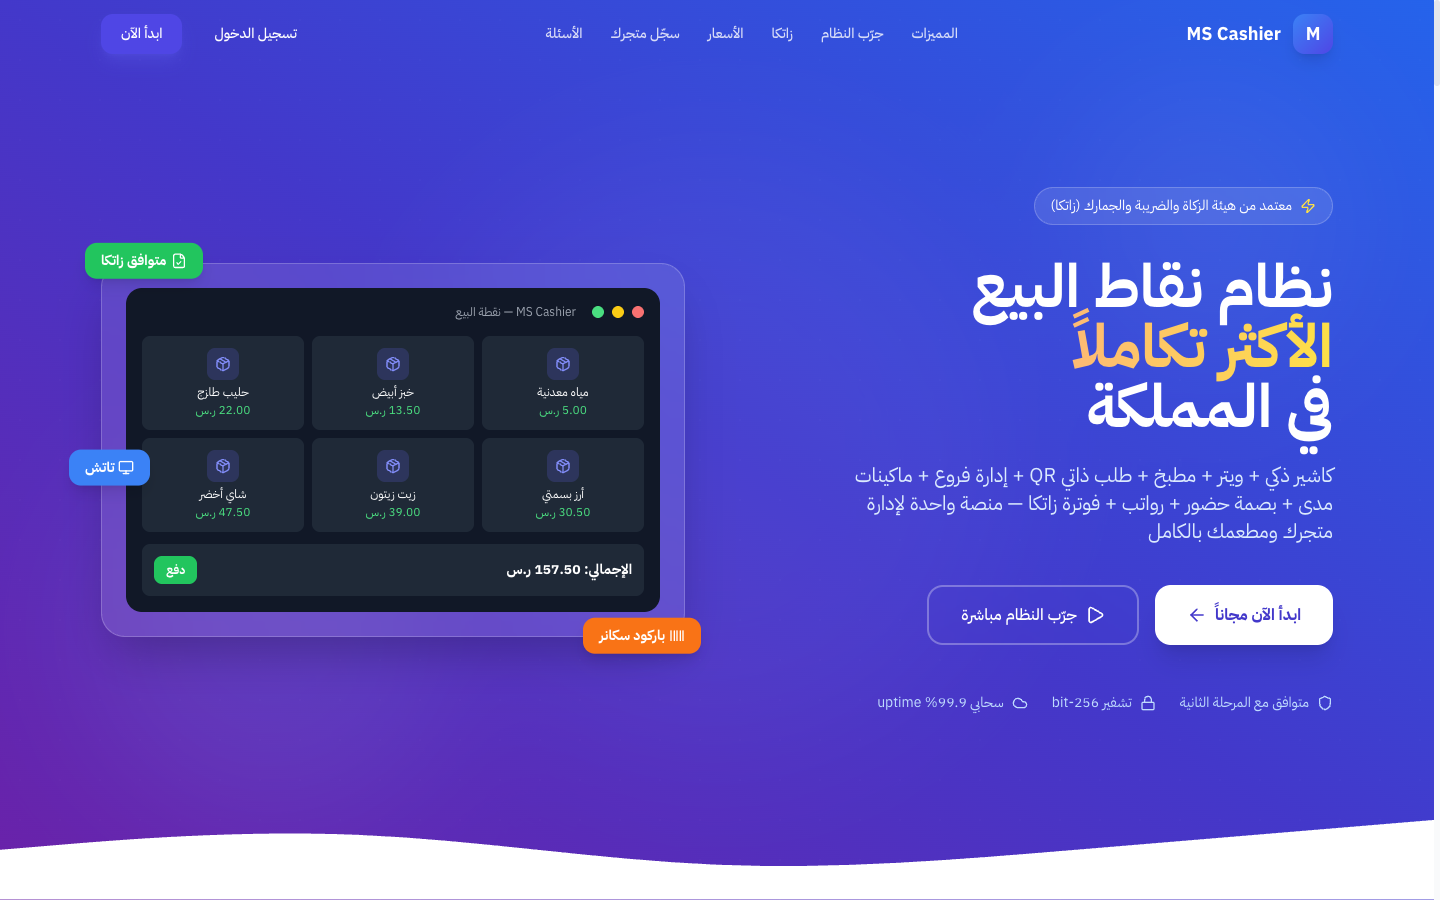
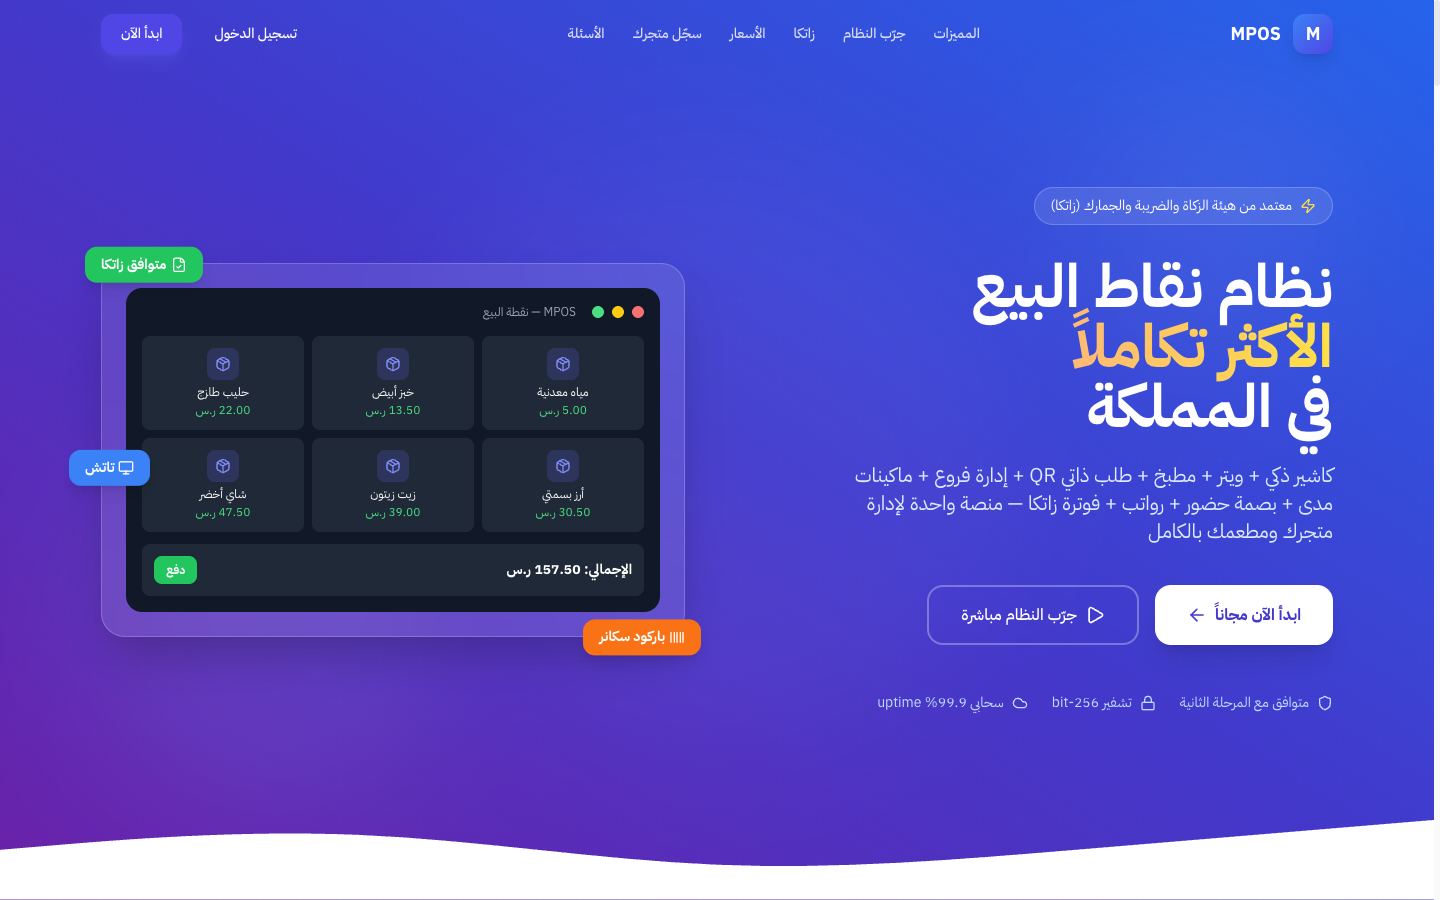
docs: Refresh screenshots with MPOS branding and update README references
Retake all screenshots showing updated MPOS name instead of old
MS Cashier branding. Update README image paths to match new filenames.

diff --git a/README.md b/README.md
@@ -80,17 +80,17 @@
 <p align="center"><em>لوحة التحكم</em></p>
 </td>
 <td width="50%">
-<img src="screenshots/07-sales-light.png" alt="Sales - Light" />
+<img src="screenshots/06-sales-light.png" alt="Sales - Light" />
 <p align="center"><em>إدارة المبيعات</em></p>
 </td>
 </tr>
 <tr>
 <td width="50%">
-<img src="screenshots/08-inventory-light.png" alt="Inventory - Light" />
+<img src="screenshots/07-inventory-light.png" alt="Inventory - Light" />
 <p align="center"><em>إدارة المخزون</em></p>
 </td>
 <td width="50%">
-<img src="screenshots/09-login.png" alt="Login" />
+<img src="screenshots/08-login.png" alt="Login" />
 <p align="center"><em>تسجيل الدخول</em></p>
 </td>
 </tr>
@@ -107,23 +107,6 @@
 <td width="50%">
 <img src="screenshots/05-sales-dark.png" alt="Sales - Dark" />
 <p align="center"><em>إدارة المبيعات</em></p>
-</td>
-</tr>
-<tr>
-<td colspan="2">
-<img src="screenshots/06-inventory-dark.png" alt="Inventory - Dark" />
-<p align="center"><em>إدارة المخزون</em></p>
-</td>
-</tr>
-</table>
-
-### صفحة الهبوط
-
-<table>
-<tr>
-<td>
-<img src="screenshots/02-landing-features.png" alt="Features" />
-<p align="center"><em>المميزات والعرض التفاعلي</em></p>
 </td>
 </tr>
 </table>
